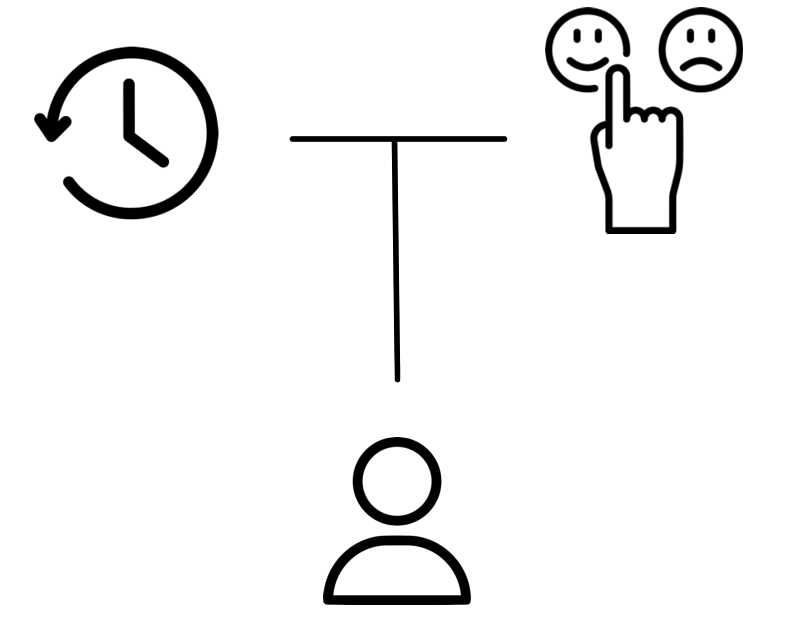
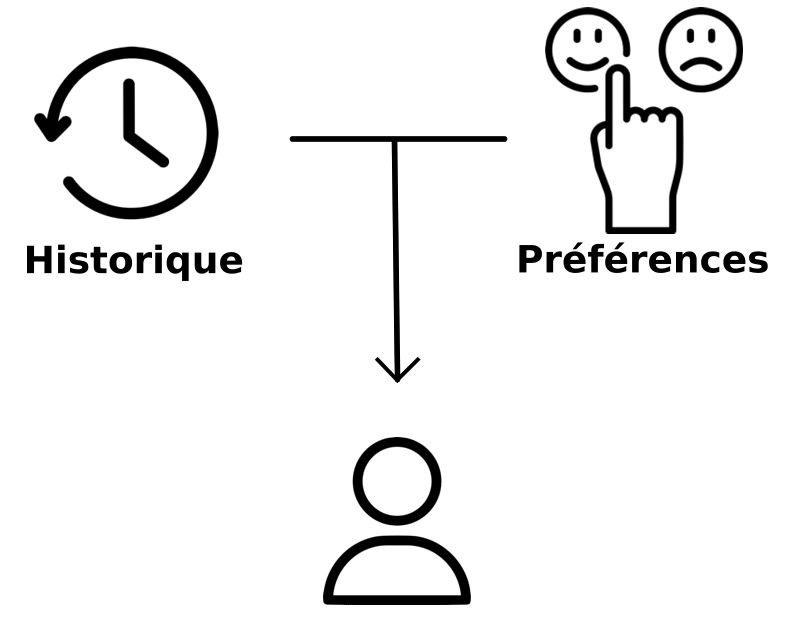
Modify some descriptions

Changed region(s): [[0.6316, 0.3631, 0.9624, 0.4538], [0.0301, 0.3933, 0.3008, 0.4538], [0.4812, 0.5748, 0.5414, 0.6051]]

diff --git a/Introduction/Introduction.tex b/Introduction/Introduction.tex
@@ -28,7 +28,7 @@
     \begin{figure}
         \centering
         \includegraphics[totalheight=6cm]{History&Choices.png}
-        \caption{Historique et préférences}
+        \caption{Version simplifiée de l'algorithme de recommandation de Netflix}
     \end{figure}
 
 \end{frame}
